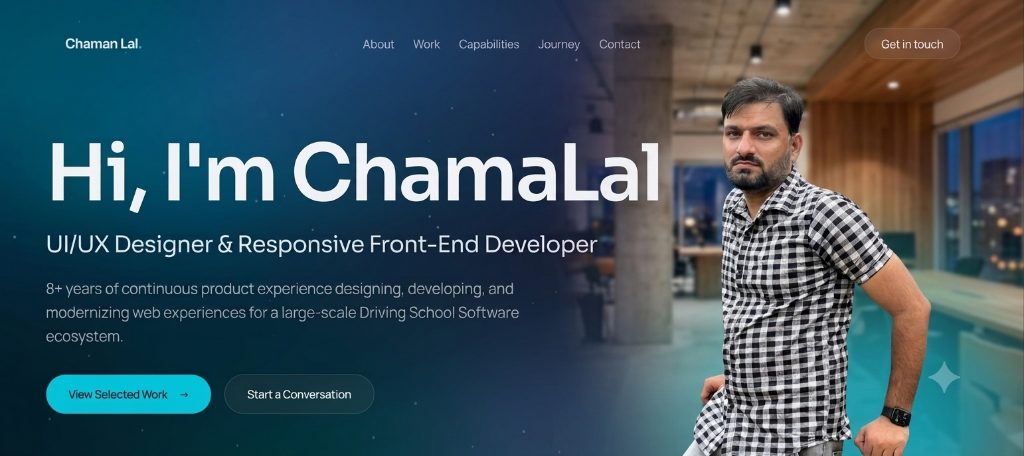
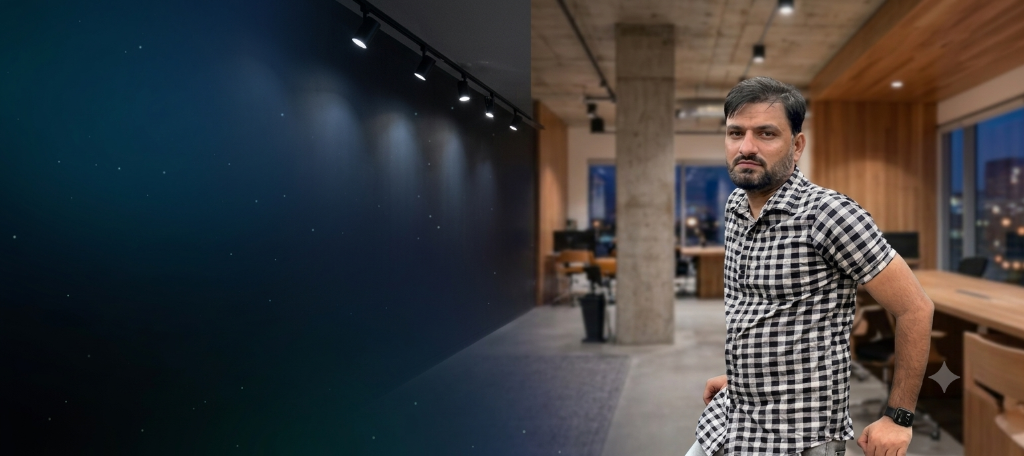
Update hero background with real full-bleed hero artwork

diff --git a/src/components/sections/Hero.tsx b/src/components/sections/Hero.tsx
@@ -26,25 +26,26 @@ export function Hero() {
       id="hero"
       className="relative isolate flex min-h-[92svh] items-center overflow-hidden bg-background px-6 pt-28 pb-16 md:px-10"
     >
+      {/* Real Full Hero background image blend */}
+      <div className="absolute inset-0 z-0 pointer-events-none overflow-hidden">
+        <img
+          src={chamanImg}
+          alt={person.name}
+          className="h-full w-full object-cover object-right md:object-center filter contrast-[1.03] brightness-95 opacity-90"
+        />
+        {/* Soft edge gradient masks for perfect text contrast on the left */}
+        <div className="absolute inset-0 bg-gradient-to-r from-background via-background/75 to-transparent md:w-3/4 lg:w-2/3" />
+        <div className="absolute inset-x-0 bottom-0 h-36 bg-gradient-to-t from-background via-background/60 to-transparent" />
+        <div className="absolute inset-x-0 top-0 h-28 bg-gradient-to-b from-background/80 to-transparent" />
+      </div>
+
       <Aurora />
-      <MeshGradient />
-      <AnimatedGrid size={64} opacity={0.3} />
+      <MeshGradient opacity={0.4} />
+      <AnimatedGrid size={64} opacity={0.2} />
       <ParticleField />
       <GlowOrbs count={3} />
       <MouseSpotlight />
       <Vignette />
-
-      {/* Full Hero background image blend */}
-      <div className="absolute right-0 top-0 bottom-0 z-0 w-full md:w-3/5 lg:w-1/2 pointer-events-none opacity-90 overflow-hidden">
-        <img
-          src={chamanImg}
-          alt={person.name}
-          className="h-full w-full object-cover object-top filter contrast-[1.05] brightness-95"
-        />
-        {/* Soft edge gradient masks to seamlessly blend image into dark hero backdrop */}
-        <div className="absolute inset-0 bg-gradient-to-r from-background via-background/60 to-transparent" />
-        <div className="absolute inset-0 bg-gradient-to-t from-background via-transparent to-background/50" />
-      </div>
 
       <motion.div
         style={{ y, opacity, scale }}
